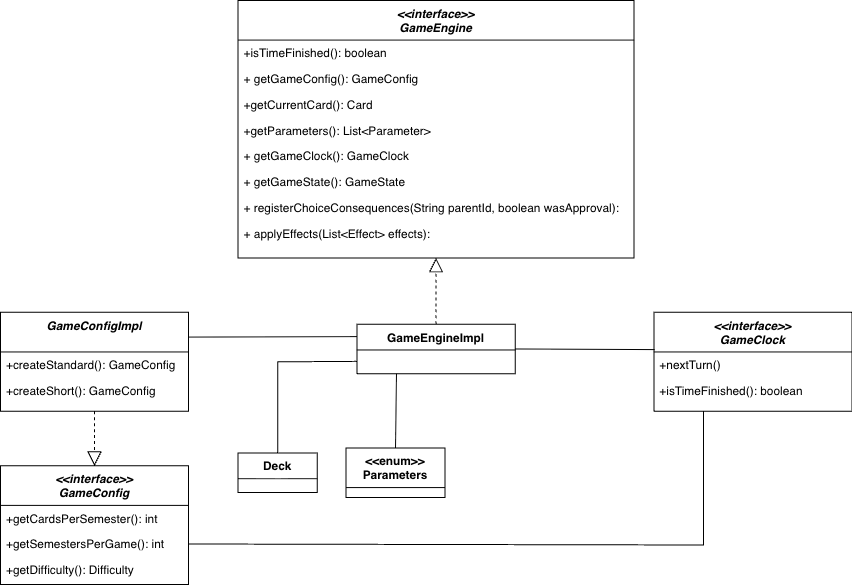
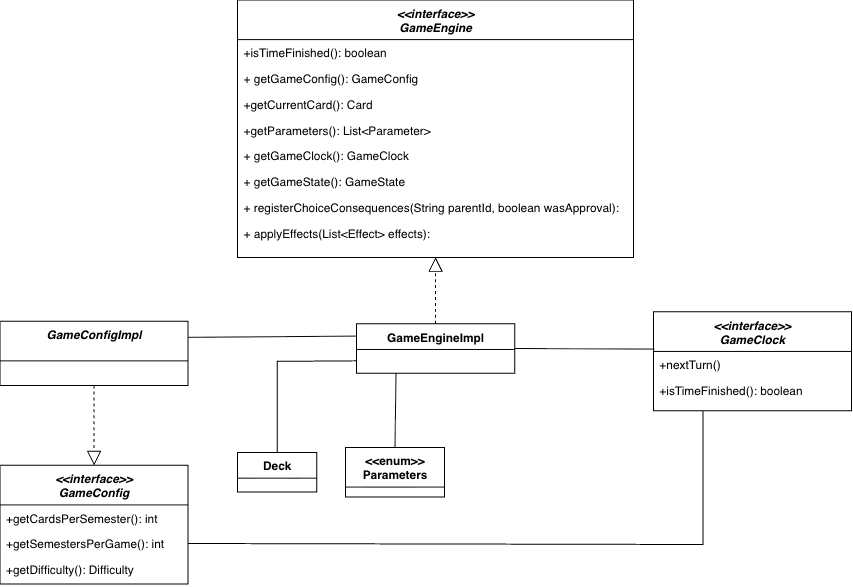
mpodifed an UML and the description of the model

diff --git a/docs/report.tex b/docs/report.tex
@@ -152,18 +152,15 @@ raggiunge il livello minimo o massimo.
 % -----------------------------------------------------------------------------
 \section{Modello del Dominio}
 % -----------------------------------------------------------------------------
-Le entità principali del dominio sono il \emph{Rettore} (il giocatore),
-che gestisce un insieme di \emph{Parametri} dell'Ateneo. Ogni parametro
-ha un nome, un livello numerico compreso fra 0 e 100, e uno stato
-(attivo o esaurito). I quattro parametri sono: Finanze, Studenti,
-Docenti e Reputazione.
-
 Lo svolgimento della partita è scandito da una sequenza di \emph{Carte}
 prelevate da un \emph{Mazzo}. Ogni carta descrive un evento, è associata
 a un \emph{Personaggio} che la presenta, e propone al giocatore due
 \emph{Decisioni} alternative (approvazione o rifiuto). A ciascuna
 decisione è associato un insieme di \emph{Effetti}, ognuno dei quali
-specifica quanto e in quale direzione un parametro viene modificato.
+specifica quanto e in quale direzione un parametro viene modificato. Ogni parametro
+ha un nome, un livello numerico compreso fra 0 e 100, e uno stato
+(attivo o esaurito). I quattro parametri sono: Finanze, Studenti,
+Docenti e Reputazione.
 
 Alcune decisioni attivano un meccanismo di \emph{Conseguenza}: Le scelte
 prese, hanno conseguenza sulle situazioni che il rettore dovrà gestire 